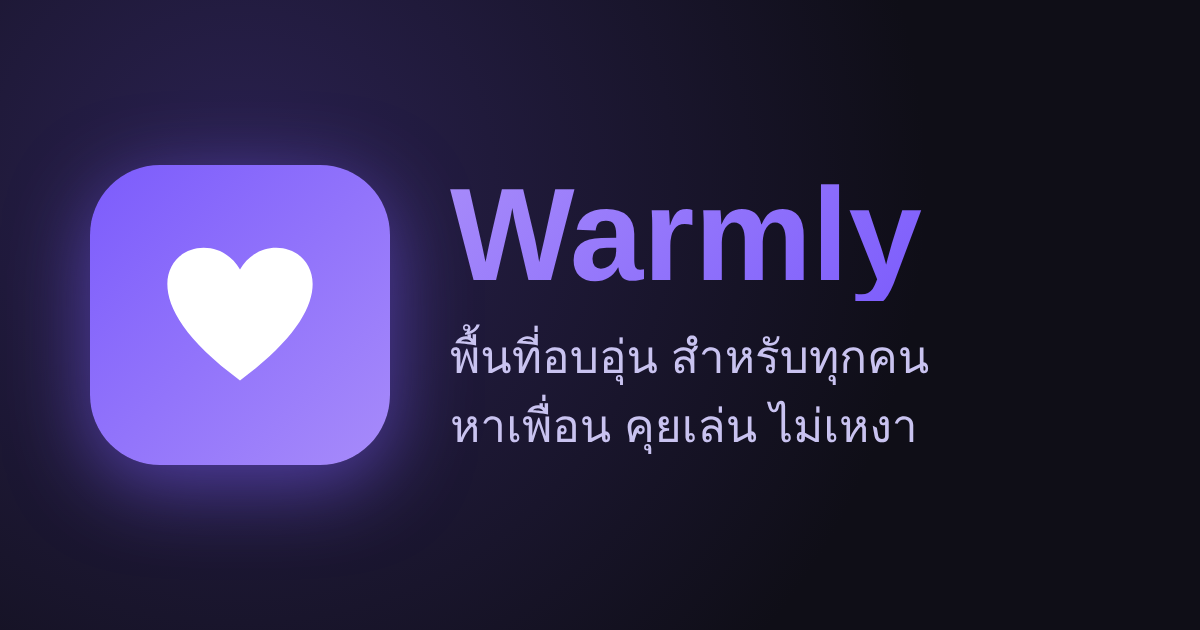
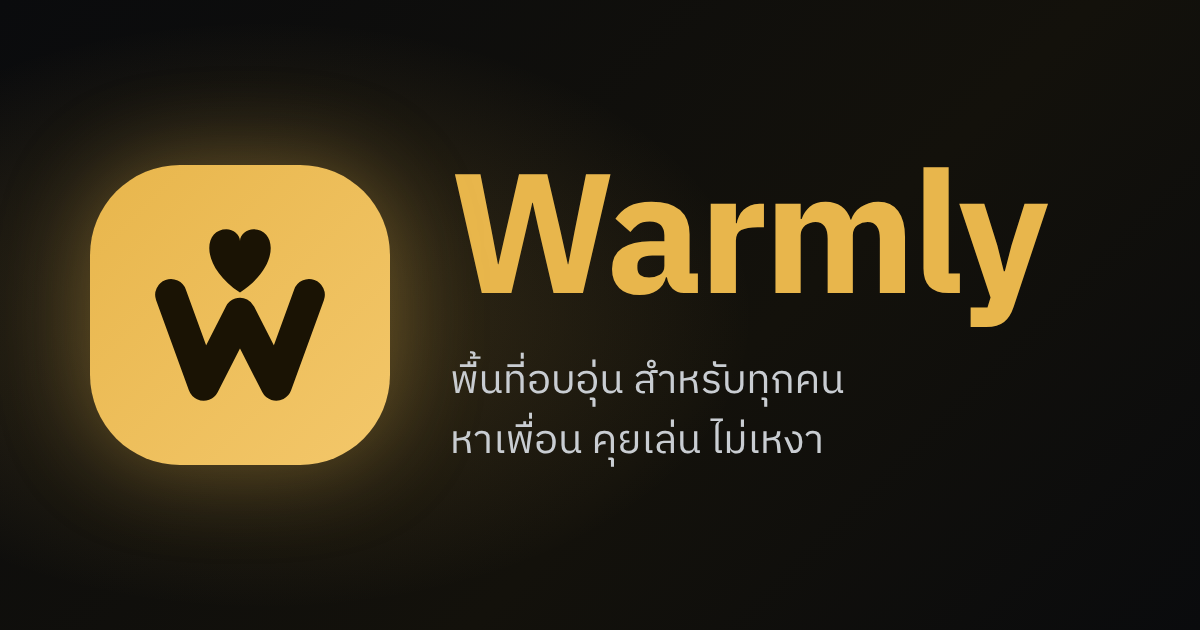
โลโก้ W แบบ B2 (หัวใจเหนือตัว W) ในแอป + ไอคอนแอป/แท็บ/รูปตัวอย่างแชร์ลิงก์ให้ตรงกัน, สีพื้นหลัง PWA เป็นดำเทา
Claude-Session: https://claude.ai/code/session_012HBfxUT2xfLKKeb2as9Rk3

diff --git a/src/App.jsx b/src/App.jsx
@@ -530,10 +530,10 @@ function Av({init,bg,tc,size=40,online,grad,isSelf,uid}){
   </div>);
 }
 
-// โลโก้ Warmly: ตัว W เส้นหนามนพร้อมจุดประกาย (วาดเอง ไม่ใช้ฟอนต์) — สีตามธีม (พื้นปุ่มหลัก + ตัวอักษรบนปุ่มหลัก)
+// โลโก้ Warmly: ตัว W เส้นหนามนพร้อมหัวใจเหนือตัว W (วาดเอง ไม่ใช้ฟอนต์) — สีตามธีม (พื้นปุ่มหลัก + ตัวอักษรบนปุ่มหลัก)
 function WLogo({size=30,radius,style}){
   return <div role="img" aria-label="Warmly" style={{width:size,height:size,borderRadius:radius||Math.round(size*.3),background:T.brandGrad,color:T.onBrand,display:"flex",alignItems:"center",justifyContent:"center",flexShrink:0,...style}}>
-    <svg width={Math.round(size*.72)} height={Math.round(size*.72)} viewBox="0 0 32 32" fill="none" aria-hidden="true"><path d="M4.2 9 9.8 24.4 16 12.2 22.2 24.4 27.8 9" stroke="currentColor" strokeWidth="5.4" strokeLinecap="round" strokeLinejoin="round"/><circle cx="16" cy="5.4" r="2.7" fill="currentColor"/></svg>
+    <svg width={Math.round(size*.78)} height={Math.round(size*.78)} viewBox="0 0 32 32" fill="none" aria-hidden="true"><path d="M6.56 13.24 11.04 25.56 16.00 15.80 20.96 25.56 25.44 13.24" stroke="currentColor" strokeWidth="4.32" strokeLinecap="round" strokeLinejoin="round"/><path transform="translate(16 7.98) scale(0.62)" d="M0 8C-9 2 -8 -6 -3 -6 C-1.5 -6 0 -4.8 0 -3.4 C0 -4.8 1.5 -6 3 -6 C8 -6 9 2 0 8Z" fill="currentColor"/></svg>
   </div>;
 }
 
